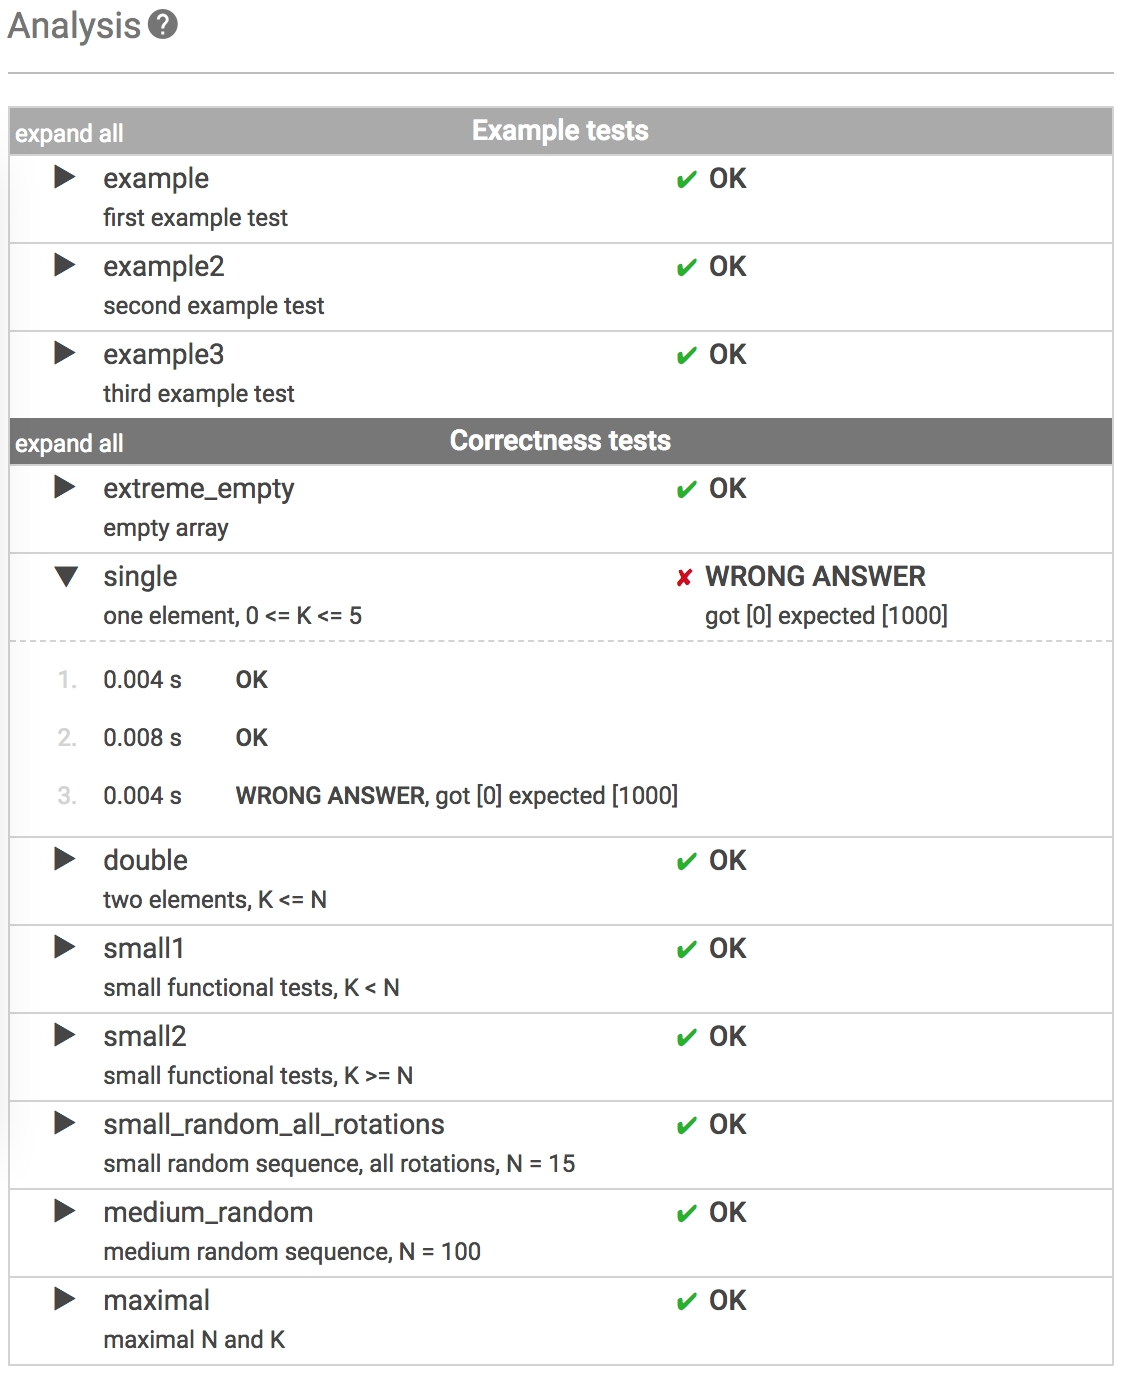
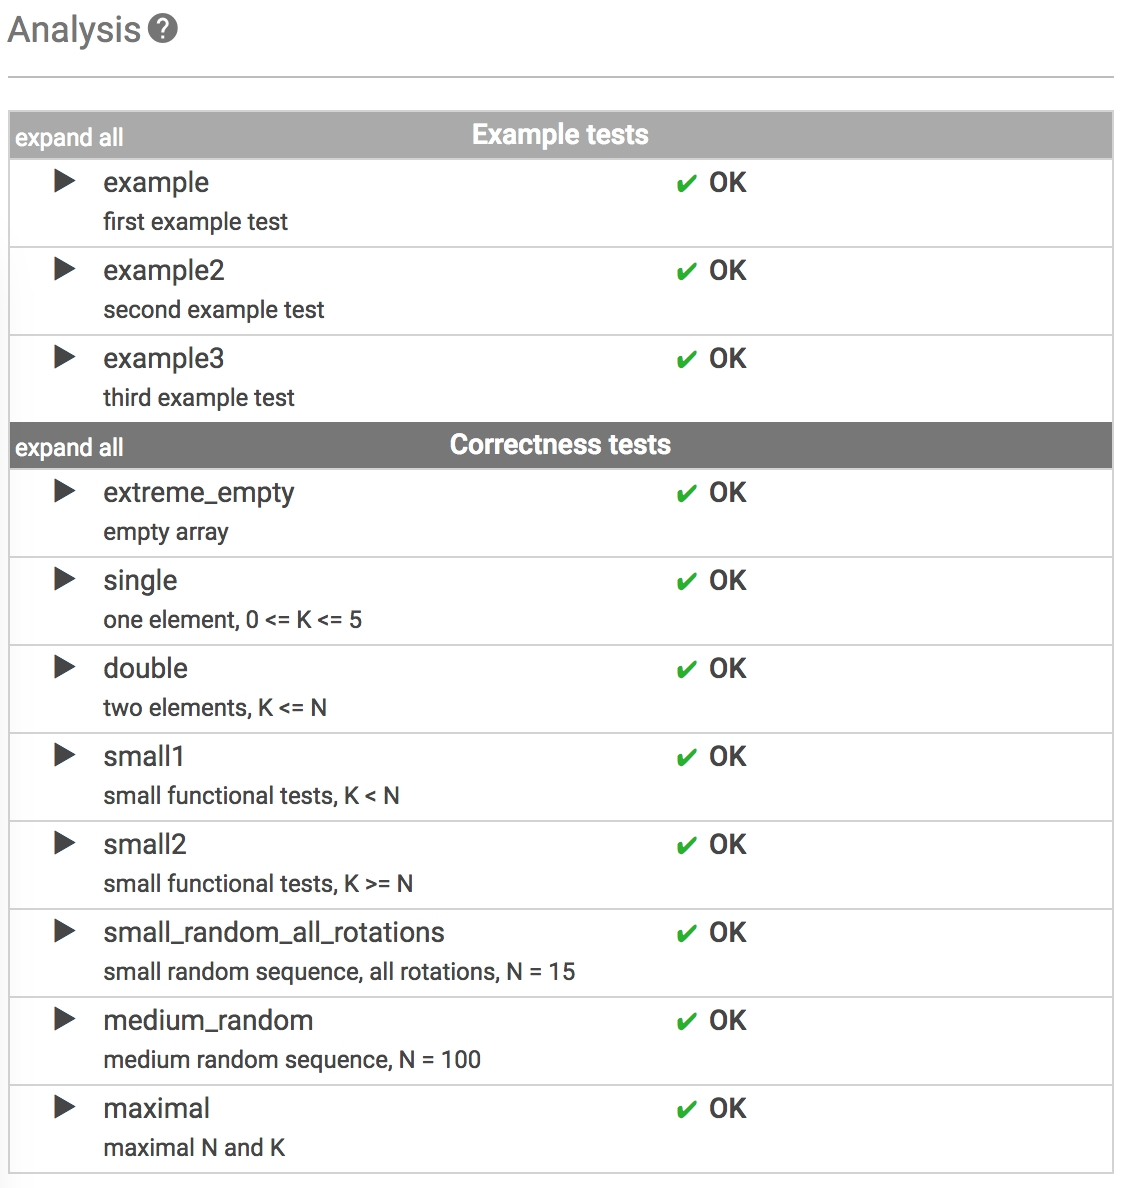
Awesome Completed for CyclicRotation of Lesson_2_Arrays!!

diff --git a/Lessons/2_Arrays/Tasks_CyclicRotation/Answer.php b/Lessons/2_Arrays/Tasks_CyclicRotation/Answer.php
@@ -10,7 +10,7 @@ function solution($A, $K) {
 
     if ($ArrLength < 0 || $ArrLength > 100) return false;
 
-    if ($ArrLength === 0) return $A;
+    if ($ArrLength === 0 || $ArrLength === 1) return $A;
 
     if ($K < 0 || $K > 100) return false;
 
@@ -34,7 +34,7 @@ function solution($A, $K) {
                 if ($j === $ArrLength - 1) {
                     $temp = $A[$j];
                 }
-                
+
                 $A[$j] = $A[$j - 1];
             }
         }
